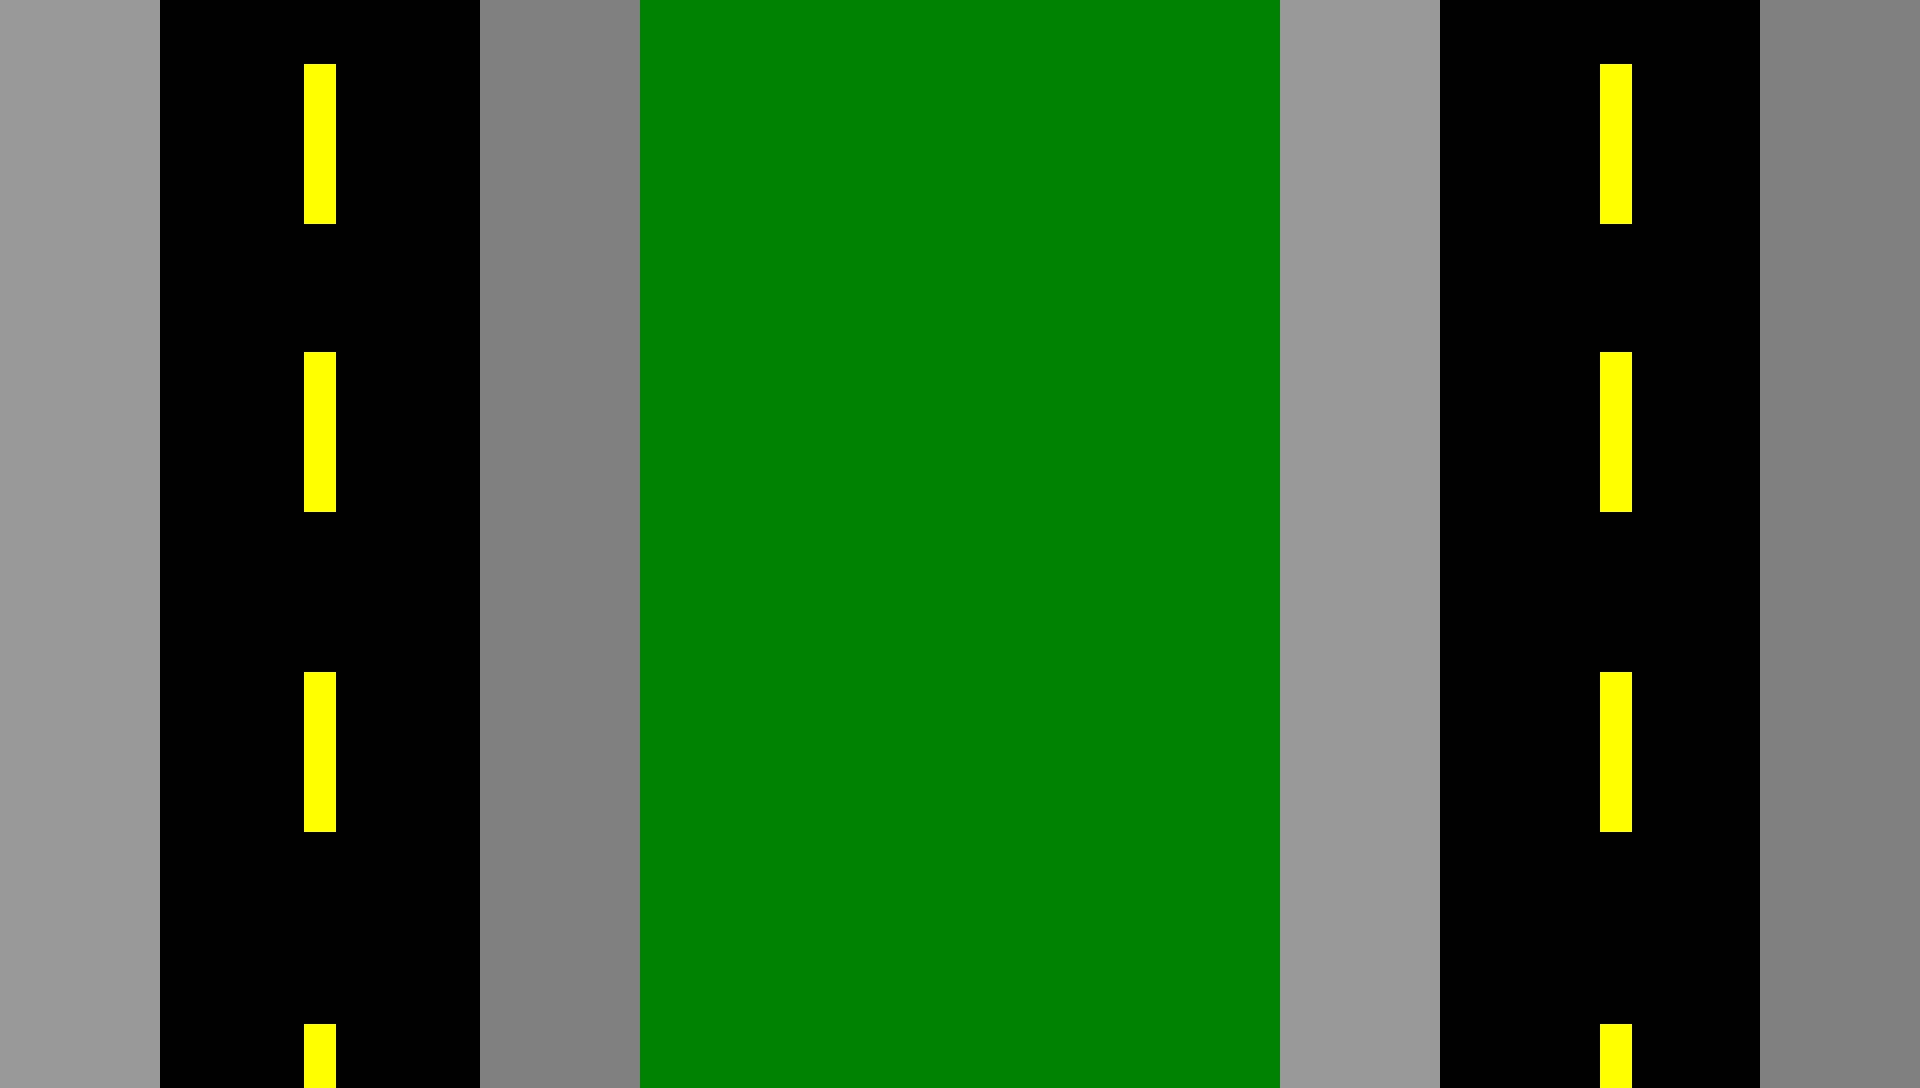
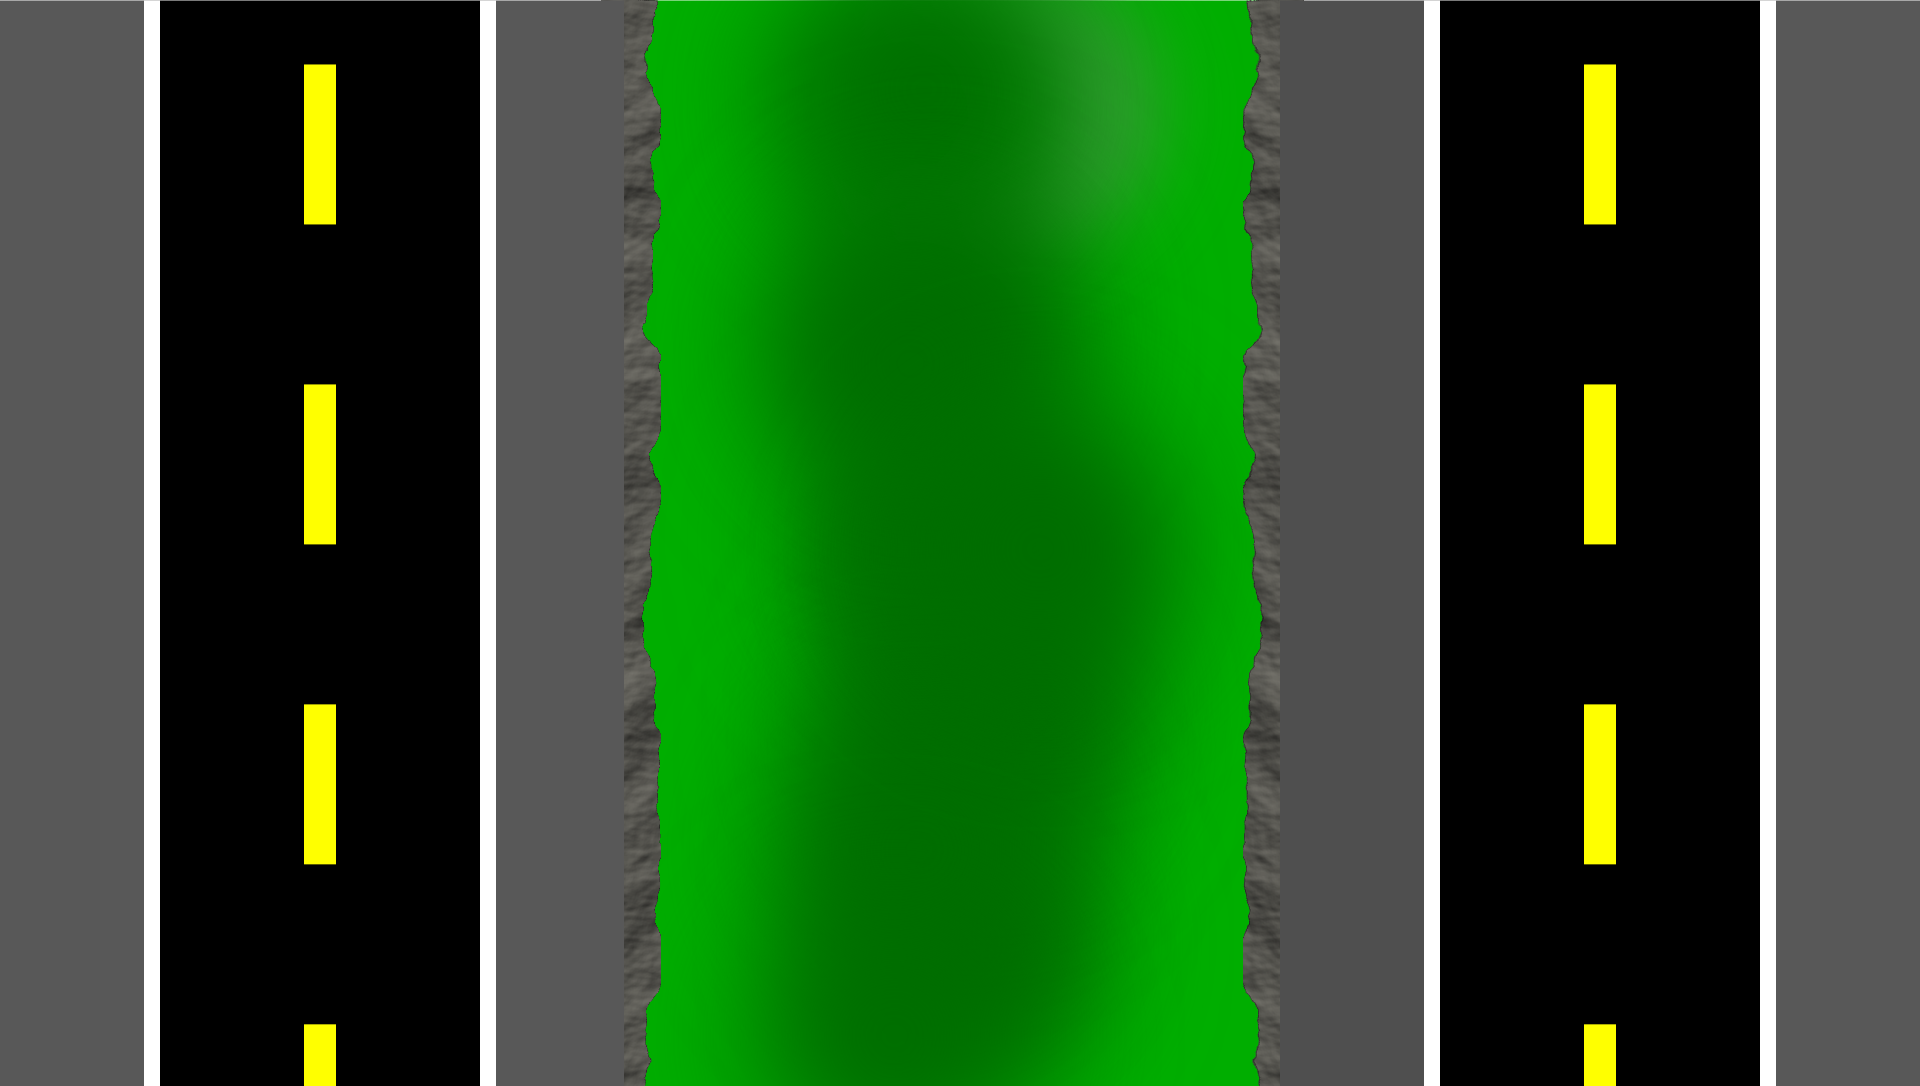
changes

diff --git a/core/src/com/freeway_frenzy/screens/MainMenu.java b/core/src/com/freeway_frenzy/screens/MainMenu.java
@@ -1,17 +1,34 @@
 package com.freeway_frenzy.screens;
 
+import java.util.LinkedList;
+import java.util.List;
+import java.util.stream.Collectors;
+
+import com.badlogic.gdx.Gdx;
 import com.badlogic.gdx.Screen;
 import com.badlogic.gdx.graphics.Texture;
 import com.freeway_frenzy.FFGame;
+import com.freeway_frenzy.GameObject;
+import com.freeway_frenzy.Positions;
+import com.freeway_frenzy.game_object.Destroyable.Direction;
+import com.freeway_frenzy.game_object.destroyable.Car;
 
 public class MainMenu implements Screen {
 	
+	final int BOX_SIZE = 160;
+	
+	public enum position{
+		
+	}
+	
 	private FFGame game;
 	private Texture tex;
+	private List<GameObject> objects;
 	
 	public MainMenu(FFGame game) {
 		this.game = game;
 		this.tex = new Texture("background.png");
+		objects = new LinkedList<GameObject>();
 		
 	}
 
@@ -23,11 +40,43 @@ public class MainMenu implements Screen {
 
 	@Override
 	public void render(float delta) {
+		//Debug Stuff
+		if(Gdx.input.justTouched()) {
+			System.out.println("X: " + Gdx.input.getX() + "\tY: " + Gdx.input.getY());
+		}
+		
+		
+		
+		if(Math.floor(Math.random() * 100) == 1) {
+			objects.add(new Car(Positions.Lanes.values()[(int) Math.floor(Math.random() * 4)].x, -128, Direction.UP));
+		}
+		
+		
+		
+		//Before Drawing
+		objects.forEach(x -> {
+			x.step(delta);
+			
+		});
+		
+		objects = objects.stream().filter(x -> x.getY() < 1200).collect(Collectors.toList());
+		
+		
+		//Drawing
 		game.getSpriteBatch().begin();
+		
 		game.getSpriteBatch().draw(tex, 0, 0);
-
+		objects.stream().filter(x -> x.getY() < 1200).forEach(x -> x.draw(game.getSpriteBatch()));
+		
+		//Draw grid lines
+		
+		for(int x = 0; x < 1920; x+= BOX_SIZE) {
+			//Implement this!
+		}
+		
 		game.getSpriteBatch().end();
 		
+		//After Drawing
 	}
 
 	@Override
@@ -38,13 +87,13 @@ public class MainMenu implements Screen {
 
 	@Override
 	public void pause() {
-		// TODO Auto-generated method stub
+		System.out.println("PAUSED");
 		
 	}
 
 	@Override
 	public void resume() {
-		// TODO Auto-generated method stub
+		System.out.println("RESUME");
 		
 	}
 

diff --git a/core/src/com/freeway_frenzy/game_object/Destroyable.java b/core/src/com/freeway_frenzy/game_object/Destroyable.java
@@ -5,19 +5,39 @@ import com.badlogic.gdx.graphics.g2d.SpriteBatch;
 import com.freeway_frenzy.GameObject;
 
 public abstract class Destroyable extends GameObject {
+	public enum Direction {
+		UP(0,1), DOWN(0,-1), LEFT(-1,0), RIGHT(1,0);
+		
+		protected final int changeX;
+		protected final int changeY;
+		
+		Direction(int cx, int cy){
+			this.changeX = cx;
+			this.changeY = cy;
+		}
+	}
+	
+	
 	int hp, speed;
 	SpriteBatch batch;
-	int x, y, width, height;
+	Direction dir;
 	
-	public Destroyable(int x, int y, Texture tex, int width, int height, int hp, int speed) {
+	
+	public Destroyable(int x, int y, Texture tex, int width, int height, int hp, int speed, Direction dir) {
 		super(x, y, tex, width, height);
 		this.hp = hp;
 		this.speed = speed;
+		this.dir = dir;
 	}
 	
 	public void collide(Destroyer d) {
 		this.hp -= d.damage;
 		super.draw = this.hp > 0;
+	}
+	
+	public void move(double delta) {		
+		super.x += (int)(dir.changeX * this.speed * delta * 60);
+		super.y += (int)(dir.changeY * this.speed * delta * 60);
 	}
 
 }

diff --git a/core/src/com/freeway_frenzy/FFGame.java b/core/src/com/freeway_frenzy/FFGame.java
@@ -7,7 +7,7 @@ import com.badlogic.gdx.graphics.GL20;
 import com.badlogic.gdx.graphics.PerspectiveCamera;
 import com.badlogic.gdx.graphics.Texture;
 import com.badlogic.gdx.graphics.g2d.SpriteBatch;
-import com.badlogic.gdx.utils.viewport.FitViewport;
+import com.badlogic.gdx.utils.viewport.StretchViewport;
 import com.badlogic.gdx.utils.viewport.Viewport;
 import com.freeway_frenzy.screens.MainMenu;
 
@@ -19,9 +19,8 @@ public class FFGame extends Game {
 	
 	@Override
 	public void create () {
-
 		camera = new PerspectiveCamera();
-	    viewport = new FitViewport(1920, 1080, camera);
+	    viewport = new StretchViewport(1920, 1080, camera);
 		batch = new SpriteBatch();
 		setScreen(new MainMenu(this));
 	}

diff --git a/core/src/com/freeway_frenzy/game_object/destroyable/Car.java b/core/src/com/freeway_frenzy/game_object/destroyable/Car.java
@@ -5,14 +5,13 @@ import com.freeway_frenzy.game_object.Destroyable;
 
 public class Car extends Destroyable{
 	
-	public Car(int x, int y) {
-		super(x, y, new Texture("badlogic.jpg"), 128, 256, 100, 5);
+	public Car(int x, int y, Direction dir) {
+		super(x, y, new Texture("car_red.png"), 128, 256, 100, 5, dir);
 	}
 
 	@Override
-	public void step() {
-		// TODO Auto-generated method stub
-		
+	public void step(Float delta) {
+		super.move(delta);
 	}
 
 }

diff --git a/core/src/com/freeway_frenzy/GameObject.java b/core/src/com/freeway_frenzy/GameObject.java
@@ -26,11 +26,11 @@ public abstract class GameObject {
 	public int getHeight() { return this.height; }
 	public Texture getImage() { return tex; };
 	
-	public abstract void step();
+	public abstract void step(Float delta);
 	
 	public void draw(SpriteBatch batch) {
 		if(draw) {
-			batch.draw(tex, x, y,width, height);
+			batch.draw(tex, x-width/2, y-height/2,width, height);
 		}
 	}
 

diff --git a/core/src/com/freeway_frenzy/Positions.java b/core/src/com/freeway_frenzy/Positions.java
@@ -1,0 +1,22 @@
+package com.freeway_frenzy;
+
+public class Positions {
+
+	public enum Sidewalks {
+		SIDEWALK1(64), SIDEWALK2(576), SIDEWALK3(1344), SIDEWALK4(1856);
+		public final int x;
+
+		Sidewalks(int x) {
+			this.x = x;
+		}
+	}
+
+	public enum Lanes {
+		LANE1(224), LANE2(416), LANE3(1504), LANE4(1664);
+		public final int x;
+
+		Lanes(int x){
+			this.x = x;
+		}
+	}
+}

diff --git a/desktop/src/com/freeway_frenzy/desktop/DesktopLauncher.java b/desktop/src/com/freeway_frenzy/desktop/DesktopLauncher.java
@@ -7,6 +7,8 @@ import com.freeway_frenzy.FFGame;
 public class DesktopLauncher {
 	public static void main (String[] arg) {
 		LwjglApplicationConfiguration config = new LwjglApplicationConfiguration();
+		config.width = 1920;
+		config.height = 1080;
 		new LwjglApplication(new FFGame(), config);
 	}
 }
